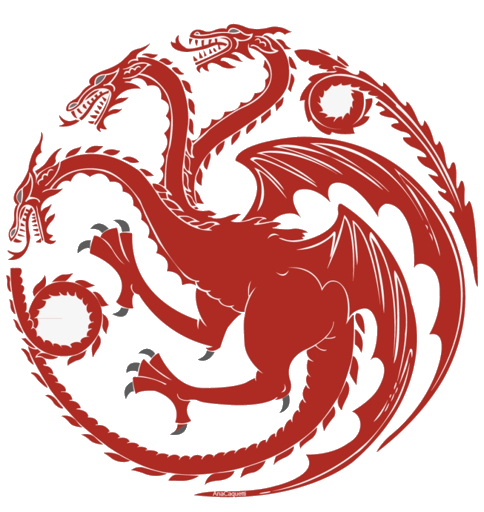
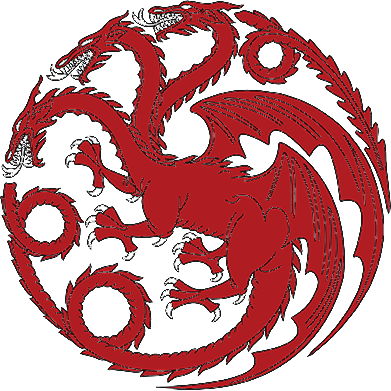
A clean Targaryen sigil, and shorter season cards
The emblem on the entry screen was a signed fan render, and the background
keying had gone wrong on it: a watermark along the bottom edge and two white
blobs where the flood fill could not reach inside the tail curls. At 92px on a
black gate that is all you see. It is replaced with the heraldic three-headed
dragon, keyed against the flat grey field the charge is actually drawn on
rather than against black — the earlier pass assumed the ground was black,
gave every pixel of a #262626 field an alpha of 78, and hung a grey square
behind the sigil.

The season cards are shorter because they say less, not because the type
shrank: five beats each instead of six, and the longer ones tightened. That
takes a card from 708px to 650px, which is inside the frame at every ordinary
window height, so the deck now renders at full size — the fit-to-frame scale
is back to being the last resort it was meant to be rather than something a
reader meets on a normal screen. Measured at 840, 900 and 1080 the scale is
exactly 1; only a 700px window still calls for it.

The cards stretch to a common height too, so eight seasons with different
amounts to say read as one even row instead of a ragged one.

Claude-Session: https://claude.ai/code/session_01BC1A4GyTf37SbwjzksorXr

diff --git a/js/data.js b/js/data.js
@@ -209,12 +209,11 @@ const SEASONS = [
     tag: 'The game begins — and the man who refuses to play it loses first.',
     mood: 'stark',
     events: [
-      'Ned Stark rides south to serve as Hand to King Robert, against every instinct he has.',
+      'Ned rides south to be Hand to King Robert, against every instinct he has.',
       'Bran sees what he should not have seen and is thrown from a tower window.',
-      'Daenerys is sold to Khal Drogo and, somewhere on the Dothraki sea, stops being a girl who is given away.',
-      'Ned works out the secret in the book: Joffrey is no Baratheon. He gives Cersei a chance to run. She does not.',
-      'On the steps of the Great Sept of Baelor, Ilyn Payne swings Ice. The protagonist dies in episode nine.',
-      'Robb is proclaimed King in the North. Daenerys walks into her husband\'s pyre and walks out with three dragons.'
+      'Daenerys is sold to Khal Drogo and stops being a girl who is given away.',
+      'Ned finds the secret in the book: Joffrey is no Baratheon. He gives Cersei a chance to run.',
+      'On the steps of Baelor, Ilyn Payne swings Ice. The protagonist dies in episode nine.'
     ],
     hero: 'Ned Stark', close: 'The dragons are back in the world. Nobody in Westeros knows it yet.'
   },
@@ -223,12 +222,11 @@ const SEASONS = [
     tag: 'Five crowns, one throne, and a bay full of green fire.',
     mood: 'wildfire',
     events: [
-      'Robb, Stannis, Renly, Joffrey and Balon all claim a crown. The realm tears itself into fifths.',
+      'Robb, Stannis, Renly, Joffrey and Balon all claim a crown. The realm tears into fifths.',
       'A shadow with Stannis\'s face murders Renly in his own tent.',
-      'Arya, hiding in plain sight at Harrenhal, serves Tywin Lannister his supper every night.',
-      'Theon takes Winterfell to prove he is Greyjoy and burns two farm boys to keep the lie.',
-      'Tyrion, acting Hand, holds King\'s Landing with wildfire and a chain across the Blackwater.',
-      'Beyond the Wall, the dead are stirring. The season ends on a wight army marching, ten thousand strong.'
+      'Arya, hiding in plain sight at Harrenhal, serves Tywin his supper every night.',
+      'Theon takes Winterfell to prove he is a Greyjoy, and burns two farm boys to keep the lie.',
+      'Tyrion holds King\'s Landing with wildfire and a chain across the Blackwater.'
     ],
     hero: 'Tyrion Lannister', close: '"Those are brave men knocking at our door. Let\'s go kill them."'
   },
@@ -237,12 +235,11 @@ const SEASONS = [
     tag: 'The season television did not recover from.',
     mood: 'blood',
     events: [
-      'Jaime Lannister loses his sword hand and, with it, the only thing he ever knew how to be.',
-      'Daenerys buys the Unsullied with a dragon, then says one word — dracarys — and takes Astapor for free.',
-      'Jon Snow goes over the Wall with the Free Folk and falls in love with Ygritte, who knows nothing about him.',
-      'Robb marries for love and breaks a promise to Walder Frey. The Freys are a patient people.',
-      'At the Twins, the band strikes up a Lannister drinking song. The doors close. Catelyn sees it a heartbeat before anyone else.',
-      'Grey Worm, the Unsullied, and forty thousand freed slaves lift Daenerys above their heads: mhysa.'
+      'Jaime loses his sword hand, and with it the only thing he ever knew how to be.',
+      'Daenerys buys the Unsullied with a dragon, says dracarys, and takes Astapor for free.',
+      'Jon goes over the Wall with the Free Folk and falls for Ygritte, who knows nothing.',
+      'Robb marries for love and breaks a promise to Walder Frey. The Freys are patient.',
+      'At the Twins the band strikes up a Lannister song. Catelyn hears it first.'
     ],
     hero: 'Robb Stark', close: 'The Red Wedding. Episode nine. It is always episode nine.'
   },
@@ -251,12 +248,11 @@ const SEASONS = [
     tag: 'Justice, trial by combat, and the sound a skull makes.',
     mood: 'lannister',
     events: [
-      'Joffrey chokes to death purple-faced at his own wedding feast. Nobody in the Seven Kingdoms mourns him honestly.',
-      'Tyrion is framed for it and demands a trial by combat, having no champion and no friends left.',
-      'Oberyn Martell volunteers — he has waited seventeen years to make the Mountain say a name aloud.',
+      'Joffrey chokes to death purple-faced at his own wedding feast.',
+      'Tyrion is framed for it and demands a trial by combat, with no champion and no friends.',
+      'Oberyn volunteers — seventeen years of waiting to make the Mountain say a name aloud.',
       'At the Wall, a hundred brothers hold Castle Black against Mance Rayder\'s hundred thousand.',
-      'Brienne and the Hound fight over Arya on a hilltop, and Arya walks away from both of them.',
-      'Tyrion finds his father on the privy and a crossbow on the wall. "You are no son of mine." He is, though.'
+      'Tyrion finds his father on the privy and a crossbow on the wall. "You are no son of mine."'
     ],
     hero: 'Tyrion Lannister', close: 'Arya buys passage to Braavos with an iron coin. Valar morghulis.'
   },
@@ -266,10 +262,9 @@ const SEASONS = [
     mood: 'ice',
     events: [
       'Daenerys rules Meereen and learns that taking a city is the easy half.',
-      'Jon sails to Hardhome to evacuate the Free Folk — and the dead arrive first.',
-      'The Night King walks unhurried through the surf, raises his arms, and every corpse on the beach sits up.',
+      'Jon sails to Hardhome to evacuate the Free Folk. The dead arrive first.',
+      'The Night King raises his arms, and every corpse on the beach sits up.',
       'Stannis burns his own daughter alive for a favourable wind. He gets snow instead.',
-      'Cersei walks naked from the Great Sept to the Red Keep while the city screams shame at her.',
       'Jon\'s own brothers put their knives in him, one after another. "For the Watch."'
     ],
     hero: 'Jon Snow', close: 'Longclaw falls in the snow. The blood on it is black in the torchlight.'
@@ -280,11 +275,10 @@ const SEASONS = [
     mood: 'green',
     events: [
       'Melisandre, out of faith and out of ideas, brings Jon Snow back anyway.',
-      'Bran greensees too greedily, and a stableboy named Wylis is broken across time so a door can be held.',
-      'Arya finishes her training in Braavos, refuses the Faceless Men, and takes back her name.',
-      'Jon and Ramsay meet on an open field. Jon nearly suffocates under his own men before the Vale rides in.',
-      'Cersei loses her trial and answers it with a cellar full of wildfire under the Great Sept.',
-      'At the Tower of Joy, Bran hears Lyanna whisper a name — and Jon Snow stops being a bastard.'
+      'Bran greensees too greedily, and a stableboy is broken across time so a door can be held.',
+      'Jon nearly suffocates under his own men at Winterfell before the Vale rides in.',
+      'Cersei answers her trial with a cellar full of wildfire under the Great Sept.',
+      'At the Tower of Joy, Bran hears Lyanna whisper a name — and Jon stops being a bastard.'
     ],
     hero: 'Sansa Stark', close: 'Daenerys sails west with a fleet, three dragons, and every ally she ever made.'
   },
@@ -294,11 +288,10 @@ const SEASONS = [
     mood: 'fire',
     events: [
       'Daenerys takes Dragonstone — the castle she was born under, empty and waiting.',
-      'On the Roseroad, Drogon comes over the hill low and screaming and the Lannister loot train stops existing.',
-      'Seven men walk beyond the Wall to catch a corpse and prove a point to a woman who does not care.',
+      'On the Roseroad, Drogon comes over the hill low and screaming. The loot train stops existing.',
+      'Seven men walk beyond the Wall to catch a corpse and prove a point.',
       'The Night King throws an ice spear. Viserion falls out of the sky into a frozen lake.',
-      'Every enemy in the world meets in the Dragonpit and looks at a wight in a box.',
-      'Viserion, blue-eyed now, breathes and the Wall comes down at Eastwatch after eight thousand years.'
+      'Viserion, blue-eyed now, breathes, and the Wall comes down after eight thousand years.'
     ],
     hero: 'Daenerys Targaryen', close: 'The army of the dead walks into the North, unhurried, in perfect silence.'
   },
@@ -308,11 +301,10 @@ const SEASONS = [
     mood: 'night',
     events: [
       'The living gather at Winterfell — Stark, Targaryen, Lannister, Free Folk, Unsullied, Dothraki.',
-      'The Long Night: 55 nights of filming, one hour of darkness, and the Dothraki charge that goes out like candles.',
-      'The Night King reaches the godswood, reaches for Bran — and Arya drops out of the dark with a catspaw dagger.',
-      'The Bells: King\'s Landing surrenders, the bells ring, and Daenerys burns the city anyway.',
-      'Jon kills the woman he loves in the throne room. Drogon melts the Iron Throne into slag and carries her away.',
-      'Bran the Broken is chosen king by a council of lords. Sansa takes the North. Arya sails west of Westeros.'
+      'The Long Night: one hour of darkness, and the Dothraki charge that goes out like candles.',
+      'The Night King reaches for Bran, and Arya drops out of the dark with a catspaw dagger.',
+      'King\'s Landing surrenders, the bells ring, and Daenerys burns the city anyway.',
+      'Jon kills the woman he loves. Drogon melts the throne to slag and carries her away.'
     ],
     hero: 'Arya Stark', close: 'Jon rides north through the gate with the Free Folk. The last shot is green.'
   }

diff --git a/css/style.css b/css/style.css
@@ -621,7 +621,9 @@ p:last-child { margin-bottom: 0; }
 .rail-outer::after  { right: 0; background: linear-gradient(270deg, var(--ink), transparent); }
 
 .rail {
-  display: flex; align-items: flex-start; gap: 1.6rem;
+  /* stretch, so eight cards with different amounts to say still read as one
+     even row rather than a ragged one */
+  display: flex; align-items: stretch; gap: 1.6rem;
   padding: 0 max(2rem, calc((100vw - var(--wrap)) / 2));
   will-change: transform;
 }
